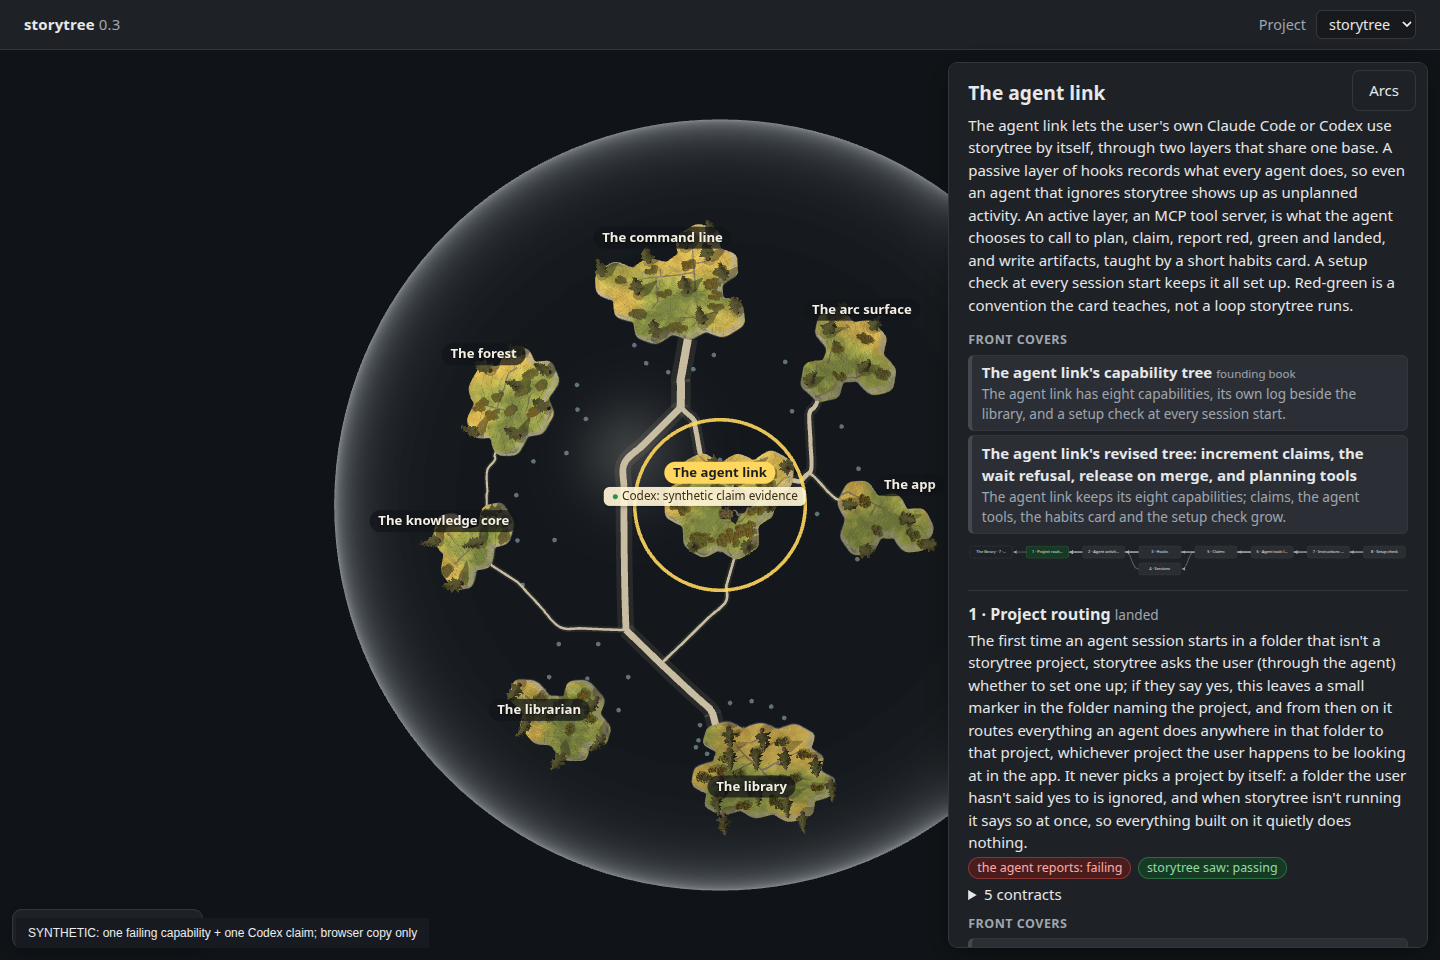
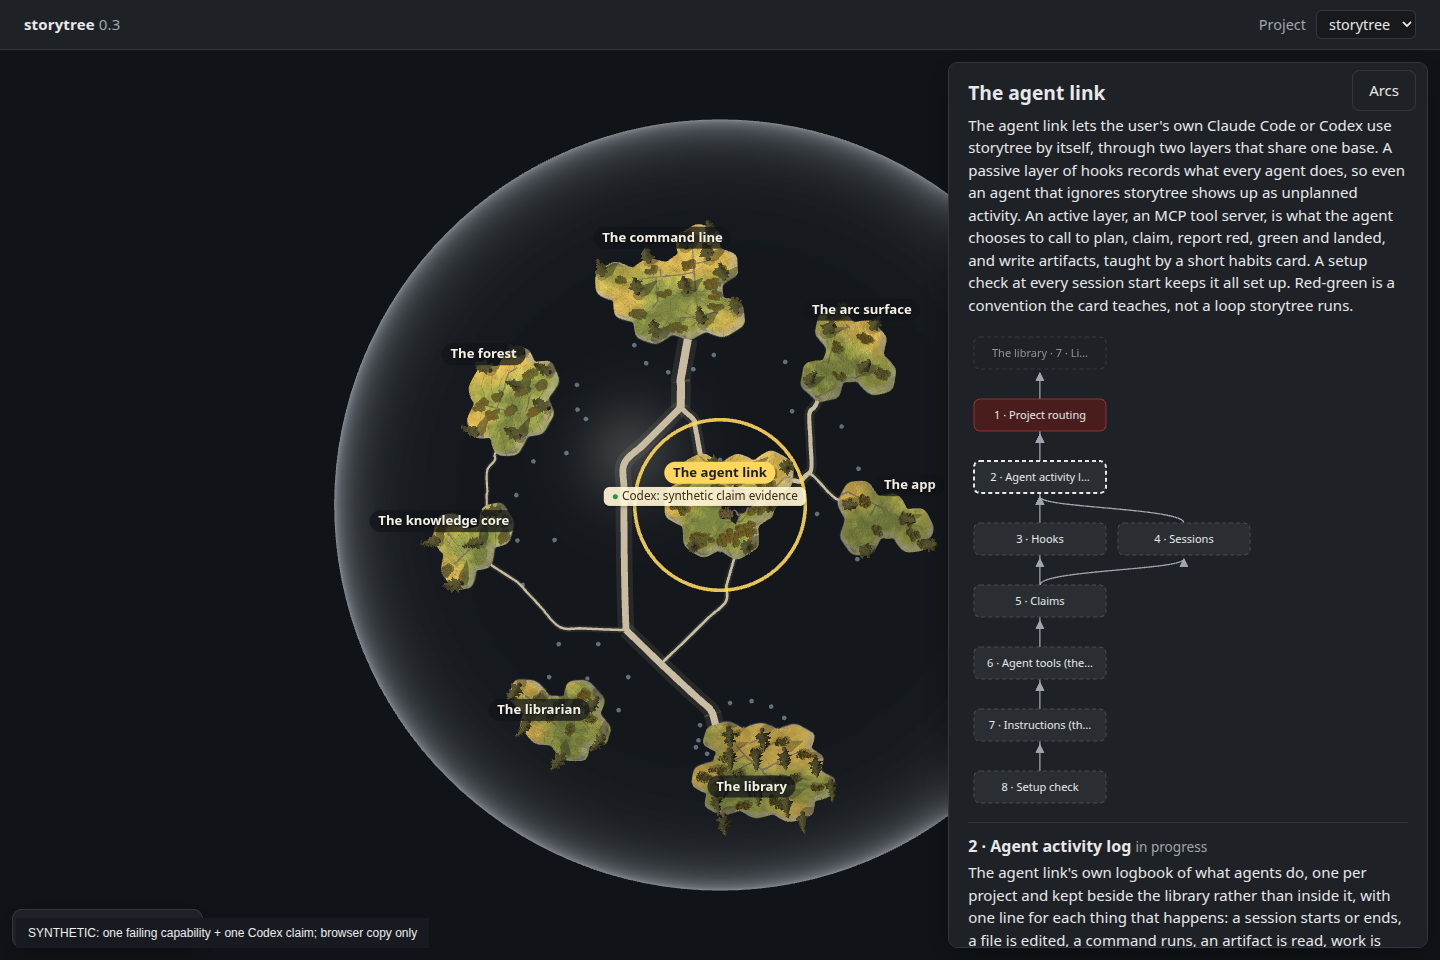
docs(knowledge-under-islands): keep failure evidence current with the story panel

Changed region(s): [[0.6562, 0.3438, 1.0, 1.0]]

diff --git a/packages/forest/src/view/evidence/knowledge-under-islands/README.md b/packages/forest/src/view/evidence/knowledge-under-islands/README.md
@@ -75,10 +75,15 @@ proof. Main then merged #121 (`8d8a73d`) while CI was finishing; this branch mer
 it at `6304348`, preserving both the stable overlay host and the knowledge component.
 The browser bridge now provides the project-selection reads used by the updated page.
 Installation, locked typecheck and the same six scoped units (1,562 tests) passed again.
-All captures were repeated on this merged renderer. The final test-ratio all row is:
+All captures were repeated on this merged renderer. Main's later #122 panel update
+(`91dd873`) merged cleanly at `6d626c6`; install, locked typecheck and the same 1,562
+scoped tests passed again. Its changes are confined to the story panel; the front and
+quarter-turn globe captures remain the `6304348` render. The full synthetic failure,
+claim and picking journey was recaptured on `6d626c6`, including its updated panel.
+The final test-ratio all row is:
 
 ```text
-  all                       38,402           28,379    1.35
+  all                       38,436           28,280    1.36
 ```
 
 ## Initial red, green and checks (before #118)
